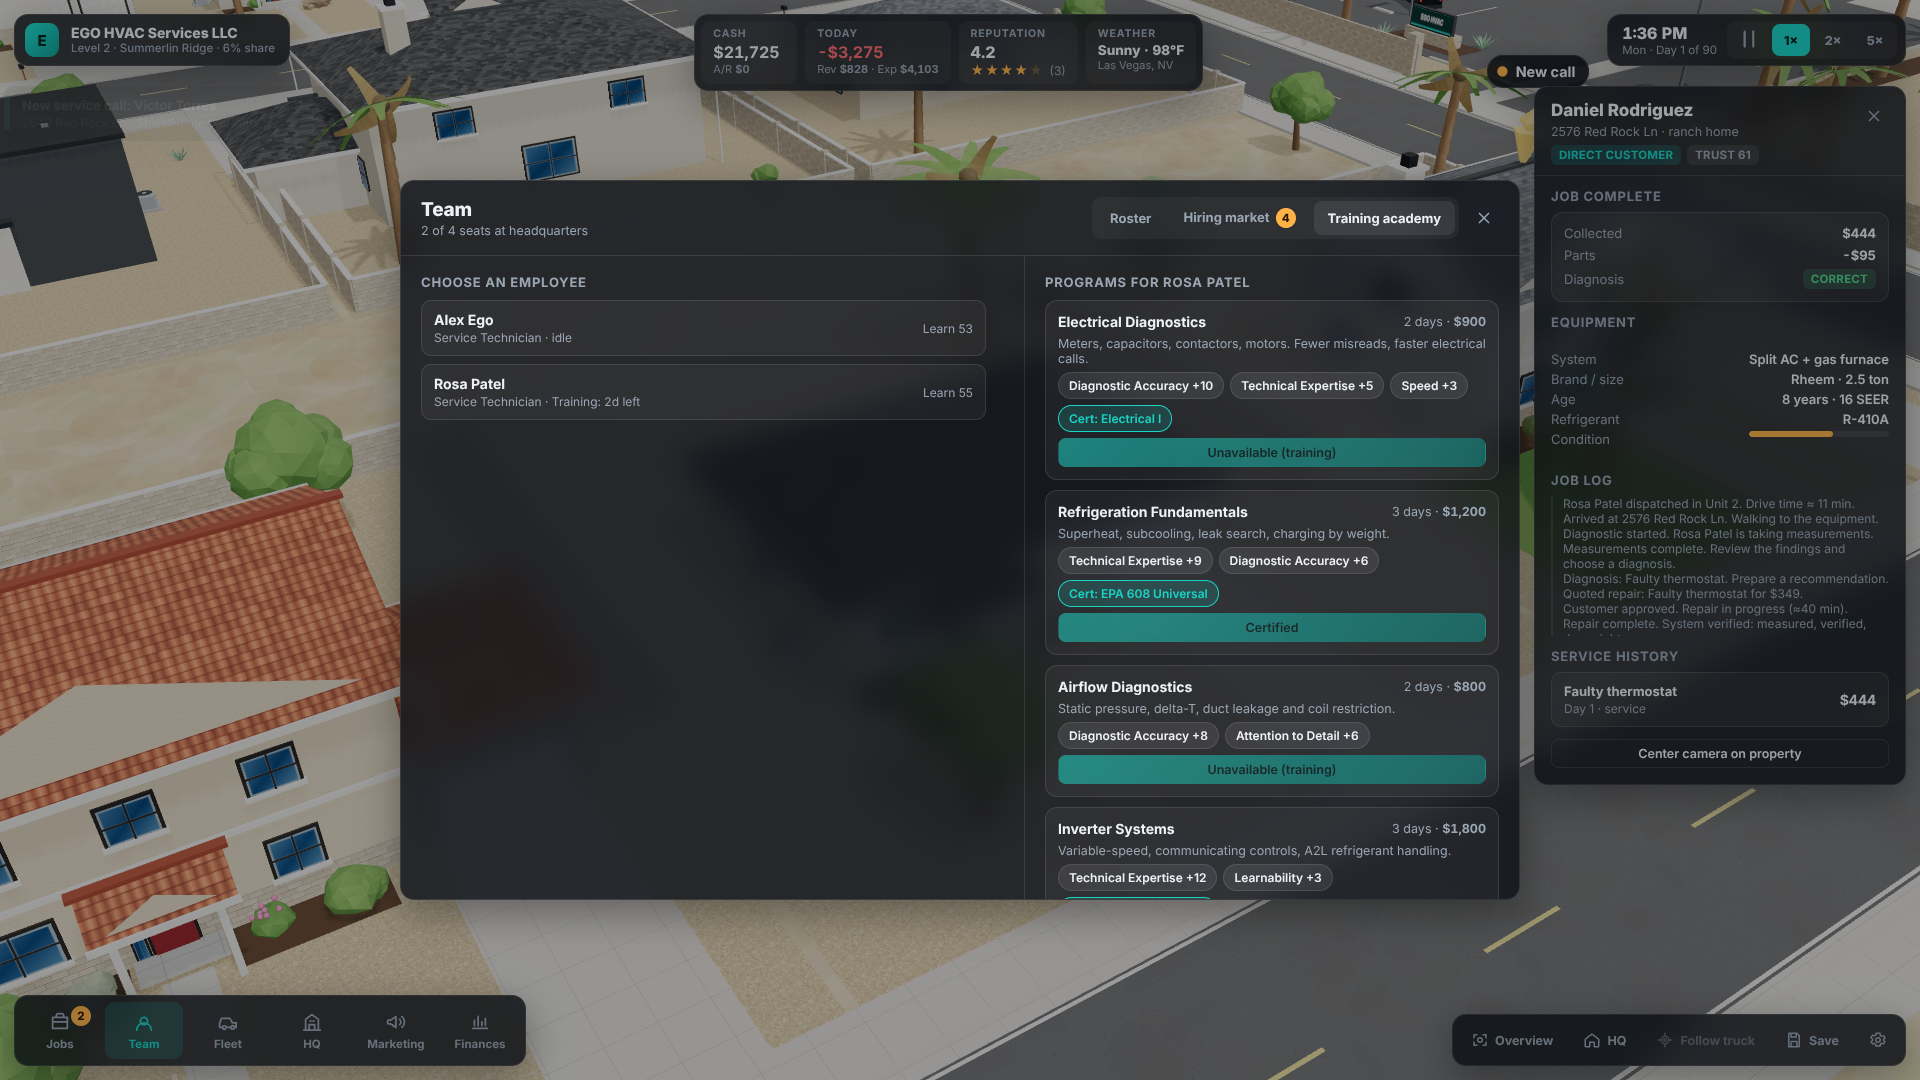
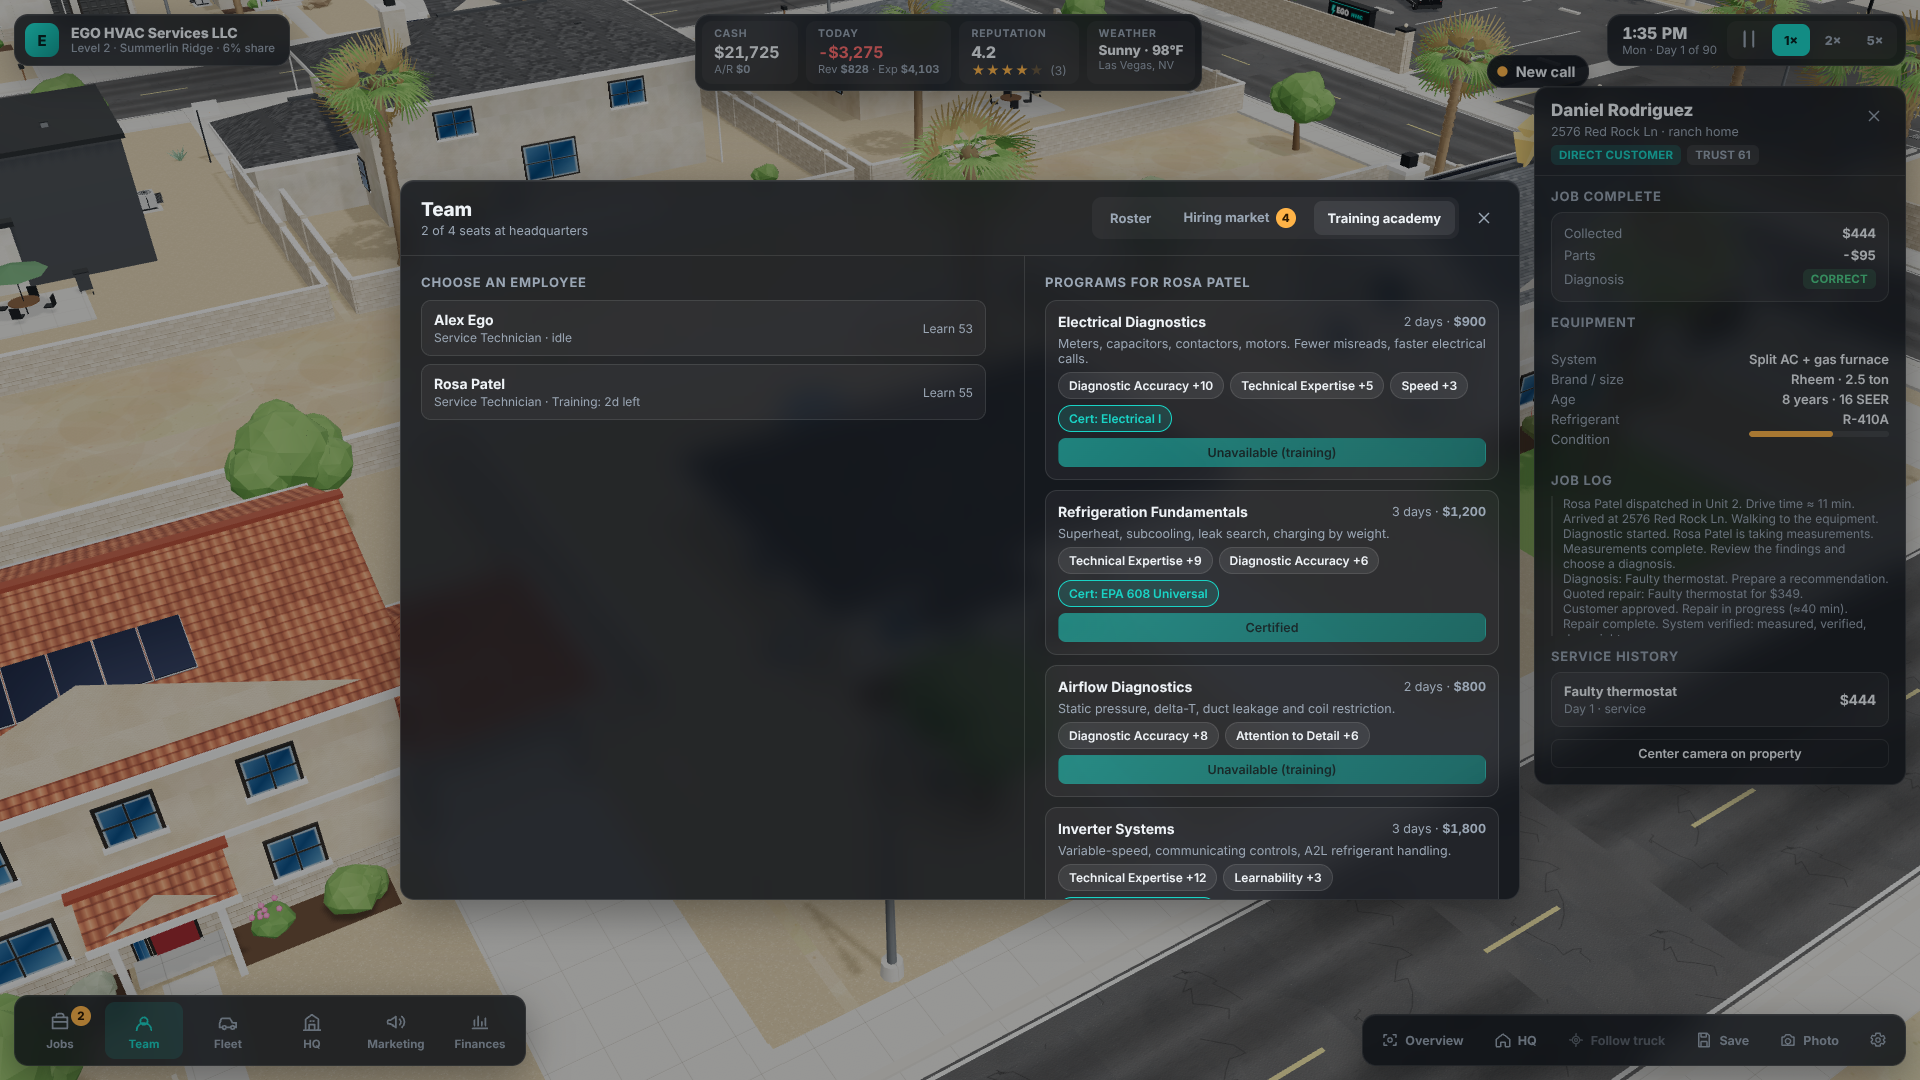
Visual excellence: final report tables, QA report, 1024x768 after frames on the fixed build
Claude-Session: https://claude.ai/code/session_011TtGYHZQtrs9isYMtf9VvZ

diff --git a/QA_REPORT.md b/QA_REPORT.md
@@ -16,9 +16,9 @@ Date: 2026-10-25 · Build: Vite 8 production bundle · Branch `ccr-9ef3ffbb-g9q8
 
 ## Browser test (Playwright, production build, headless Chromium + SwiftShader)
 
-`npm run build && npm run test:e2e` — **3 passed** (gameplay 7.0 min at ≈1 fps software-rendered; graphics 1.6 min at 1920×1080 and 1.1 min at 1366×768).
+`npm run build && npm run test:e2e` — **4 passed** on `v3-visual-excellence` (gameplay 10.8 min at ≈0.5 fps software-rendered; graphics 2.7 min at 1920×1080, 1.8 min at 1366×768, 1.6 min at 1024×768). On `v3-premium-graphics` the same gate was 3 passed (gameplay 7.0 min, graphics 1.6 and 1.1 min).
 
-Two specs run. `graphics.spec.ts` (both viewports) checks the premium renderer: WebGL draw calls and triangles via the in-scene probe, the glTF van fetched and mounted with wheel/steer nodes, 32 merged houses, articulated workers, instanced vegetation layers, selection, routed driving whose rendered position follows the simulation with spinning wheels, the technician at the correct lot clear of the wall, diagnosis, payment and a clean console. `gameplay.spec.ts` performs the mandatory end-to-end flow through the real UI and verifies state through the `window.__ego` hook:
+Two specs run. `graphics.spec.ts` (three viewports) checks the premium renderer, and on the visual-excellence branch also the bay door opening while the van moves, the rendered technician grounded at the simulated spot, evening lowering sun and exposure, Photo Mode hiding and restoring the HUD without changing cash, and the HUD bars fitting the viewport without overlap: WebGL draw calls and triangles via the in-scene probe, the glTF van fetched and mounted with wheel/steer nodes, 32 merged houses, articulated workers, instanced vegetation layers, selection, routed driving whose rendered position follows the simulation with spinning wheels, the technician at the correct lot clear of the wall, diagnosis, payment and a clean console. `gameplay.spec.ts` performs the mandatory end-to-end flow through the real UI and verifies state through the `window.__ego` hook:
 
 1. Start a new company (seed 42, $25,000 cash).
 2. Receive a lead: pin visible over the house, inspector shows the customer.
@@ -61,6 +61,8 @@ Known rendering issues after the overhaul:
 - Characters are procedurally articulated, not skinned.
 
 ## Performance measurements
+
+Visual-excellence branch (`docs/visual-excellence/after/metrics.json`, 1920×1080 High): 586 draw calls and 1.38 M triangles at the overview, 565 calls at the HQ view, 50 textures; SwiftShader renders it at about 0.5 fps, so no real-hardware FPS is claimed. Details and the before/after table are in `docs/visual-excellence/VISUAL_QUALITY_REPORT.md`.
 
 Measured on the production build via the in-scene `RenderProbe` at 1920×1080, High preset:
 

diff --git a/docs/visual-excellence/VISUAL_QUALITY_REPORT.md b/docs/visual-excellence/VISUAL_QUALITY_REPORT.md
@@ -105,7 +105,19 @@ All geometry and textures are original and generated by code in this repository 
 
 ## Performance
 
-METRICS_TABLE
+| View | Draw calls before | Draw calls after | Triangles before | Triangles after |
+| --- | --- | --- | --- | --- |
+| Neighborhood overview | 515 | 586 | 622,248 | 1,382,096 |
+| HQ wide | 451 | 565 | 621,880 | 1,382,026 |
+| HQ entrance | 306 | 407 | 611,650 | 1,358,846 |
+| Parking lot | 336 | 491 | 615,878 | 1,369,446 |
+| Service van | 329 | 401 | 617,760 | 1,372,494 |
+| Residence | 306 | 344 | 609,016 | 1,328,326 |
+| Driving | 317 | 386 | 615,744 | 1,369,560 |
+| Technician | 323 | 422 | 611,916 | 1,335,220 |
+| Evening HQ | 395 | 472 | 613,064 | 1,360,094 |
+
+Textures 42 → 50. Instanced layers 13 → 15. glTF payload 1.7 MB → 3.2 MB. Measured by the in-scene probe at 1920×1080, High preset, from `before/metrics.json` and `after/metrics.json`.
 
 Startup in the software renderer: the first rendered frame arrives about 15 s after "New game" (21 s before the texture-generation rework), of which about 9 s is shader compilation inside SwiftShader. On a desktop GPU the shader step is a fraction of a second; the canvas texture generation (about 2 s on this container's CPU) is the remaining cost and is a candidate for an offscreen worker.
 
@@ -113,7 +125,14 @@ Startup in the software renderer: the first rendered frame arrives about 15 s af
 
 ## Tests
 
-TEST_TABLE
+| Check | Result |
+| --- | --- |
+| ESLint, TypeScript (`npm run lint`, `npm run typecheck`) | clean |
+| Vitest simulation tests | 17 of 17 |
+| `gameplay.spec.ts`, 17-step loop, 1920×1080 | pass, 10.8 min at 0.5 fps (SwiftShader) |
+| `graphics.spec.ts`, 1920×1080 | pass, 2.7 min, 586 draw calls, 1,382,096 triangles |
+| `graphics.spec.ts`, 1366×768 | pass, 1.8 min |
+| `graphics.spec.ts`, 1024×768 | pass, 1.6 min, 538 draw calls (first run caught the action-bar overlap, fixed, rerun green) |
 
 The Playwright per-test budget is 1200 s because the 17-step loop takes about 10 minutes at 0.6 fps; no assertion was removed or loosened. New checks on this branch: bay door opens while the van moves, rendered technician grounded within 1.5 m of the simulated spot, evening lowers exposure and sun, Photo Mode hides the HUD and restores it without changing cash, HUD and controls fit the viewport at 1920×1080, 1366×768 and 1024×768.
 
